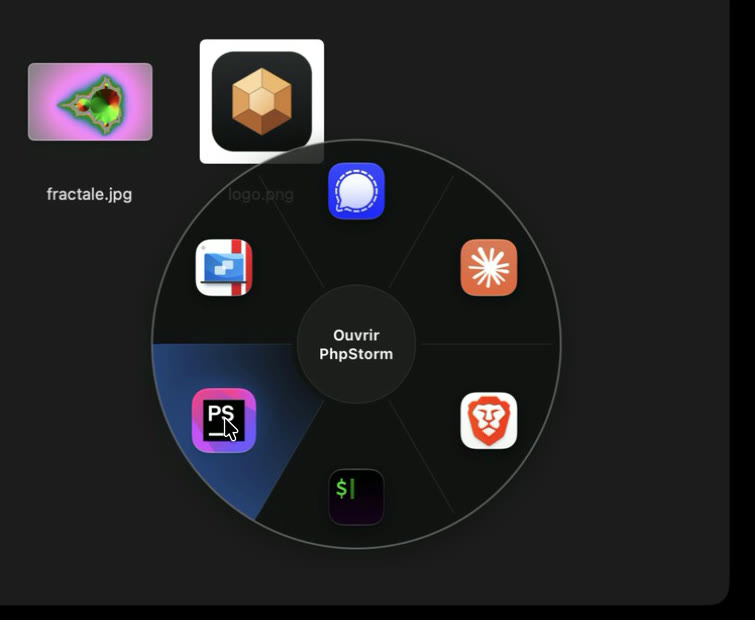
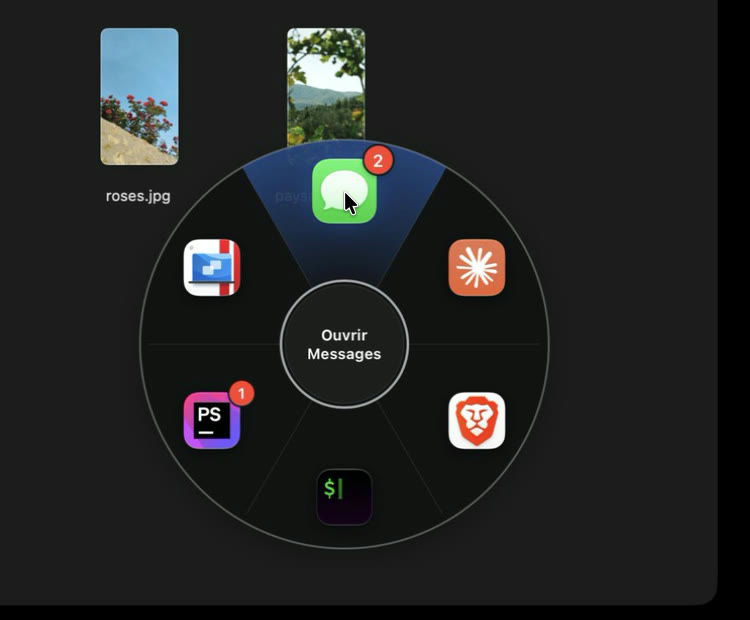
README : captures avec de vraies photos et nouvelles fonctions
GIF et captures refaits sur macOS avec de vraies photos (paysage, chien,
roses, chat) : conversion d'une photo en WebP, tour des quatre roues, roue
de partage à sept parts avec « Partager… », roue des apps avec ses
pastilles, réglages et leurs poignées. Le README décrit les pastilles, les
dix parts, le réordonnancement en glissant, le menu de partage de macOS et
la réception des fichiers par Signal.

diff --git a/README.md b/README.md
@@ -30,7 +30,7 @@
 </p>
 
 <p align="center">
-  <img src="docs/screenshots/conversion.gif" width="880" alt="Dans le Finder, la roue s'ouvre sur affiche.png ; le curseur survole JPEG puis WebP, un clic, et affiche.webp apparaît à côté de l'original">
+  <img src="docs/screenshots/conversion.gif" width="880" alt="Dans le Finder, la roue s’ouvre sur paysage.jpg ; le curseur survole PNG, JPEG (déjà le format de la photo) puis WebP, un clic, et paysage.webp apparaît à côté de l’original">
 </p>
 
 Rutile tourne en arrière-plan et ouvre, sous le curseur, une roue dont chaque part est une
@@ -81,36 +81,39 @@ notification annonce la fin de la conversion et propose d'afficher le fichier.
 ### Partager en un geste
 
 <p align="center">
-  <img src="docs/screenshots/roue-partage.jpg" width="540" alt="Roue de partage : AirDrop, Messages, Signal, iCloud Drive, Mail et Blip, la part Messages survolée">
+  <img src="docs/screenshots/roue-partage.jpg" width="540" alt="Roue de partage à sept parts : AirDrop, Messages, Signal, iCloud Drive, Mail, Blip et Partager…, survolé">
 </p>
 
-- **AirDrop, Messages, Mail** et tous les services de partage de macOS, avec leurs icônes.
+- **« Partager… »** ouvre le menu de partage de macOS, celui du bouton Partager du Finder :
+  choisissez l'app (Messages, AirDrop, Mail, WhatsApp, Telegram…), puis le destinataire.
+- **AirDrop, Messages, Mail** et tous les services de partage de macOS, en accès direct.
 - **Dossiers synchronisés** : Google Drive, iCloud Drive, Dropbox, OneDrive… Le fichier y est
   copié ; un clic sans fichier ouvre le dossier.
-- **Messageries** comme Signal : le fichier est copié, l'app s'ouvre, il n'y a plus qu'à
-  coller dans la conversation.
+- **Messageries** comme Signal, qui n'acceptent pas de fichier venant d'une autre app : le
+  fichier est copié, l'app s'ouvre, il n'y a plus qu'à le coller dans la conversation.
 
 ### Vos apps sous la main
 
 <p align="center">
-  <img src="docs/screenshots/roue-apps.jpg" width="540" alt="Roue des apps : Signal, Claude, Brave, iTerm, PhpStorm et Parallels Desktop, la part PhpStorm survolée">
+  <img src="docs/screenshots/roue-apps.jpg" width="540" alt="Roue des apps avec des pastilles de notifications sur Messages et PhpStorm, la part Messages survolée">
 </p>
 
-Six apps de votre choix, une par part. Un fichier lâché sur une app s'ouvre avec elle.
+Jusqu'à dix apps, une par part, avec leurs **pastilles de notifications** comme dans le Dock
+(macOS). Un fichier lâché sur une app s'ouvre avec elle.
 
 ### À vos couleurs
 
-<img src="docs/screenshots/reglages.gif" align="right" width="300" alt="Fenêtre des réglages : onglets Général, Roues, Couleurs et Partage">
+<img src="docs/screenshots/reglages.gif" align="right" width="300" alt="Fenêtre des réglages : onglets Général, Roues, Couleurs, Apps et Partage">
 
 Les réglages tiennent en six onglets :
 
 - **Général** : raccourci, secouage et sa sensibilité, lancement à l'ouverture de session.
-- **Roues** : ordre et activation des roues, temps au centre avant de basculer, retour sur
-  la dernière roue utilisée.
+- **Roues** : ordre des roues (en les glissant) et activation, temps au centre avant de
+  basculer, retour sur la dernière roue utilisée.
 - **Conversion** : qualité JPEG, WebP et AVIF.
 - **Couleurs** : une couleur par format et une pour la part survolée, avec un aperçu de la
   roue en direct. Le texte passe en clair ou en foncé pour rester lisible.
-- **Apps** et **Partage** : le contenu de ces deux roues.
+- **Apps** et **Partage** : de six à dix parts chacune, à réordonner en les glissant.
 
 <br clear="right">
 
@@ -265,6 +268,18 @@ JPEG, WebP, AVIF et ICO, l'image reste en pixels.
 </details>
 
 <details>
+<summary><strong>Pourquoi Signal reçoit-il le fichier par copier-coller ?</strong></summary>
+<br>
+
+Sur ordinateur, Signal n'accepte pas de fichier envoyé par une autre app : il n'a pas
+d'extension de partage, ni sur macOS, ni sous Windows, ni sous Linux. Rutile copie donc le
+fichier et ouvre Signal : choisissez la conversation, puis collez (<kbd>⌘</kbd> <kbd>V</kbd>
+ou <kbd>Ctrl</kbd> <kbd>V</kbd>). Sur macOS, « Partager… » propose aussi toutes les apps qui
+acceptent les fichiers, avec le choix du destinataire.
+
+</details>
+
+<details>
 <summary><strong>Le raccourci clavier ne fait rien</strong></summary>
 <br>
 
@@ -288,7 +303,8 @@ Retirez la quarantaine : `xattr -dr com.apple.quarantine /Applications/Rutile.ap
 <br>
 
 Rutile désactive déjà le rendu DMA-BUF de WebKitGTK (`WEBKIT_DISABLE_DMABUF_RENDERER=1`), en
-cause le plus souvent, surtout avec une carte NVIDIA. La transparence de la roue demande
+cause le plus souvent, surtout avec une carte NVIDIA. La roue suit aussi la mise à l'échelle
+du texte du système (Cinnamon, GNOME) sans déborder de sa fenêtre. La transparence de la roue demande
 aussi un compositeur (GNOME, KDE). Si le problème persiste, ouvrez une
 [issue](https://github.com/ThomasDlv0/rutile-app/issues) avec votre distribution et votre
 carte graphique.
@@ -315,7 +331,8 @@ FFmpeg est embarqué pour que la vidéo marche sans rien installer : de 75 Mo (W
 | Secouage | oui, pendant un glisser de fichiers | oui | oui | avec le groupe `input` |
 | Roue sous le curseur | oui | oui | oui | non : centre de l'écran |
 | Roue des apps | `.app`, avec icône | `.exe` ou `.lnk`, sans icône (nom seul) | `.desktop`, avec icône | idem X11 |
-| Partage : services (AirDrop…) | oui | non | non | non |
+| Pastilles de notifications | oui | non | non | non |
+| Partage : menu du système, services (AirDrop…) | oui | non | non | non |
 | Partage : dossiers synchronisés | oui | oui | oui | oui |
 | Partage : messageries (presse-papiers) | oui | oui | avec `xclip` | avec `wl-copy` |
 
